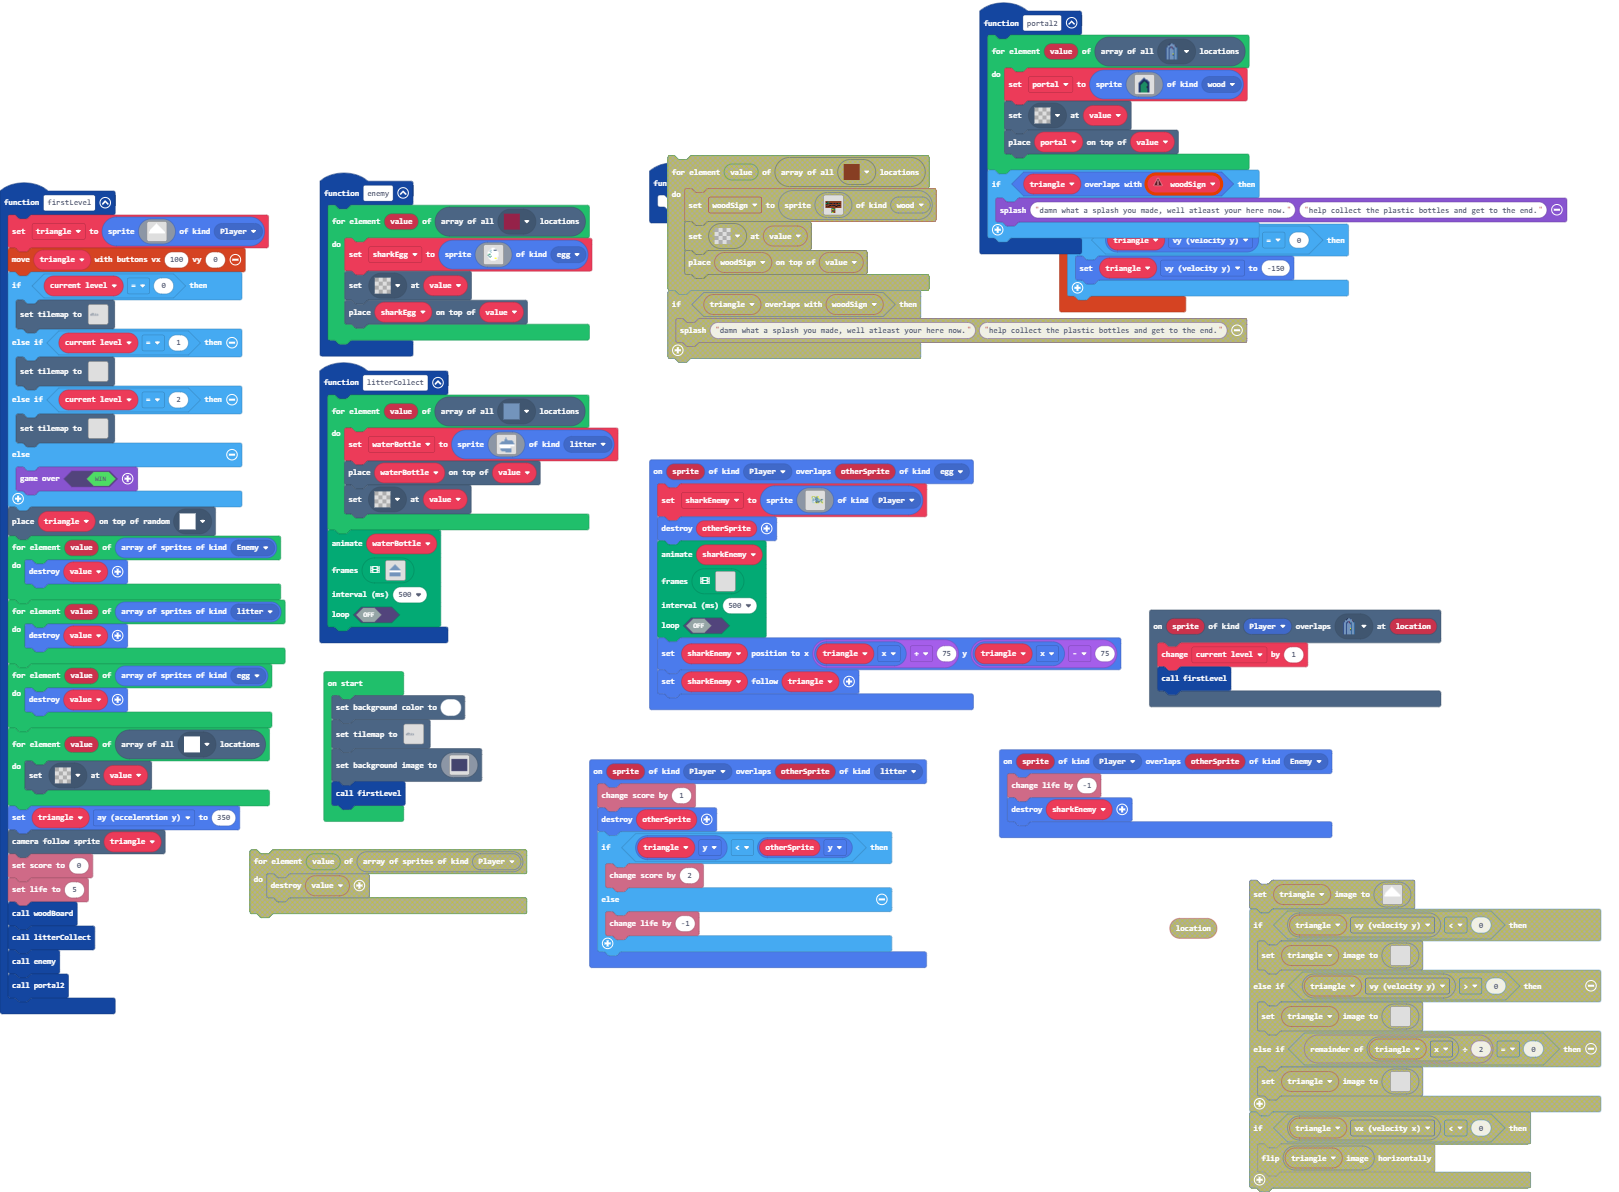
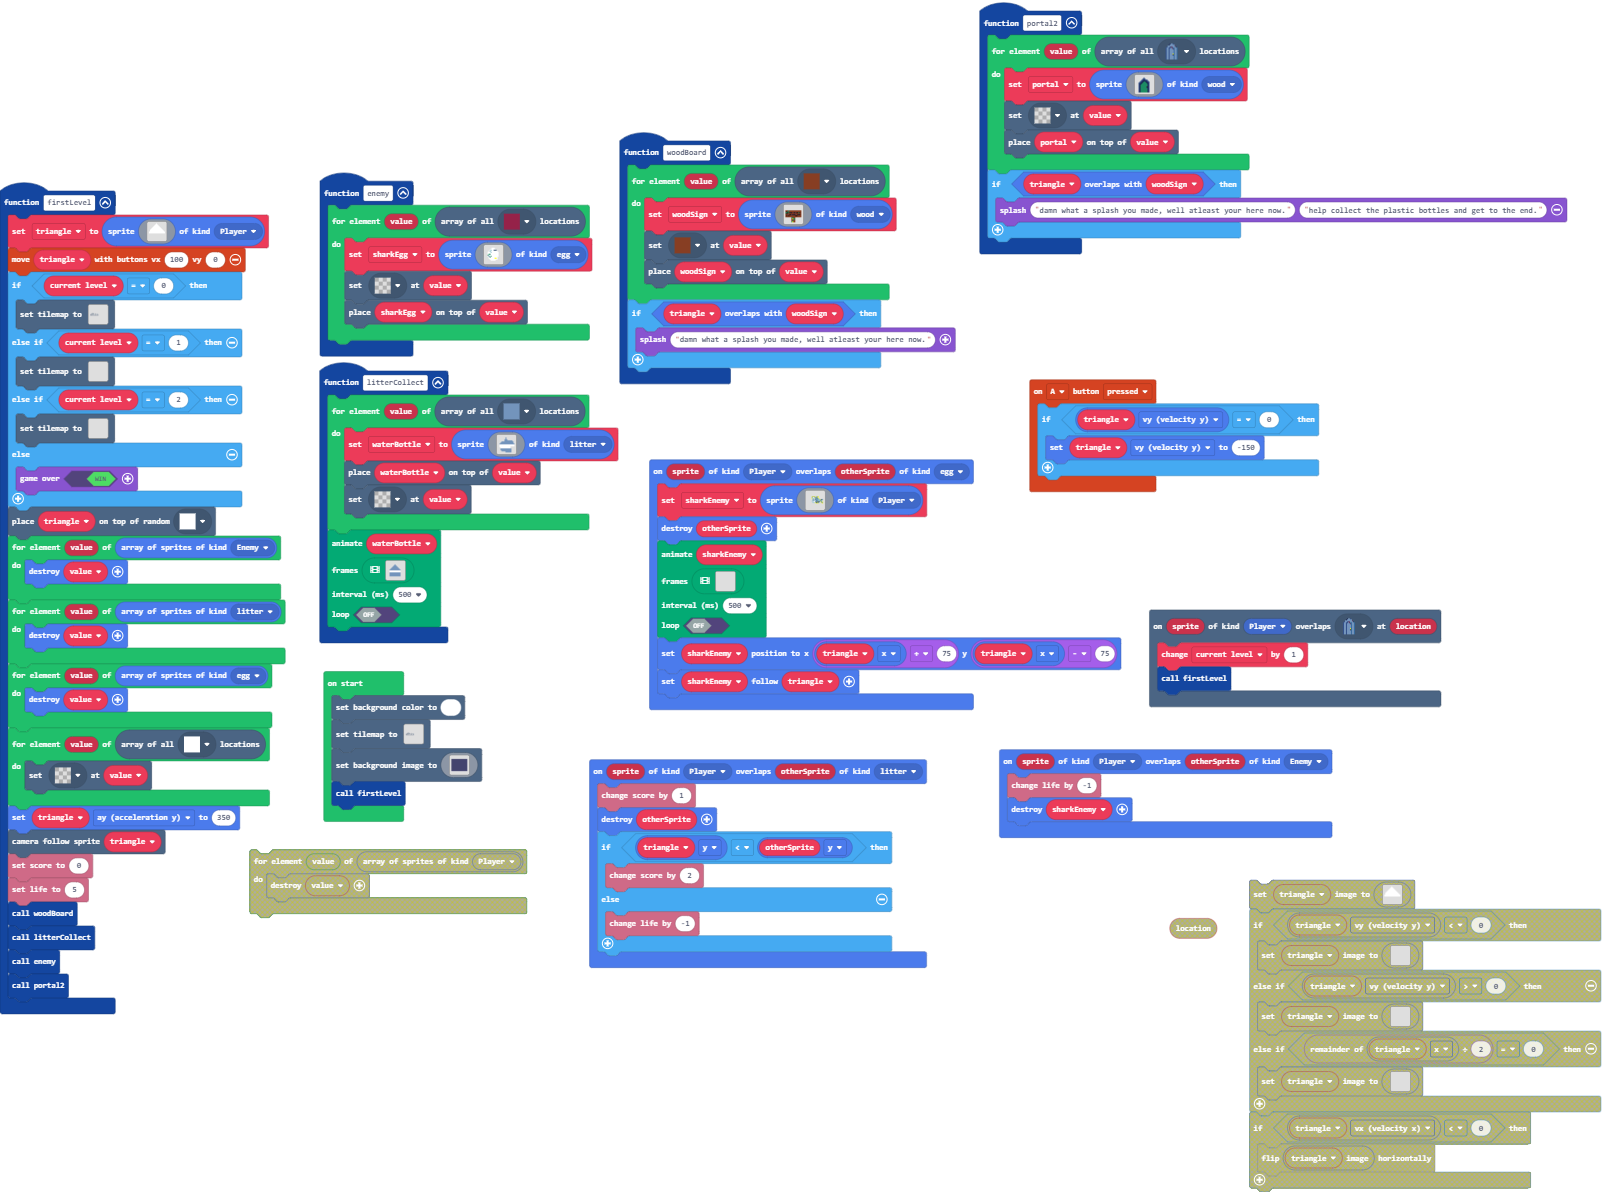
Update main.blocks, main.ts

Changed region(s): [[0.3706, 0.0931, 0.8338, 0.4346]]

diff --git a/main.ts b/main.ts
@@ -6,7 +6,31 @@ namespace SpriteKind {
     export const wood = SpriteKind.create()
 }
 function woodBoard () {
-	
+    for (let value of tiles.getTilesByType(assets.tile`myTile5`)) {
+        woodSign = sprites.create(img`
+            . . . . . . . . . . . . . . . . 
+            . . . . . . . . . . . . . . . . 
+            . . . . . . . . . . . . . . . . 
+            . . . . . . . . . . . . . . . . 
+            e e e 9 e e e e e e e e e e e e 
+            e d 9 e e e e e e e e e e e e e 
+            9 9 d 9 d 2 d e 2 d 8 d d 9 d e 
+            e d e e e e e e e e e e e e e e 
+            e e 8 e d d 8 d 2 d 8 e d 2 d e 
+            e d e d e e e e e e d d e e e e 
+            e e e e e e e e e e e e e e e e 
+            . . . . . . 9 9 e e . . . . . . 
+            . . . . . . e f 9 9 . . . . . . 
+            . . . . . . e e 9 e . . . . . . 
+            . . . . . . e 9 e e . . . . . . 
+            . . . . . . 9 f e e . . . . . . 
+            `, SpriteKind.wood)
+        tiles.setTileAt(value, assets.tile`myTile5`)
+        tiles.placeOnTile(woodSign, value)
+    }
+    if (triangle.overlapsWith(woodSign)) {
+        game.splash("damn what a splash you made, well atleast your here now.")
+    }
 }
 controller.A.onEvent(ControllerButtonEvent.Pressed, function () {
     if (triangle.vy == 0) {
@@ -76,7 +100,6 @@ function enemy () {
     }
 }
 function portal2 () {
-    let woodSign: Sprite = null
     for (let value of tiles.getTilesByType(assets.tile`myTile2`)) {
         portal = sprites.create(img`
             . . . . . . . . . . . . . . . . 
@@ -215,6 +238,7 @@ let portal: Sprite = null
 let sharkEgg: Sprite = null
 let sharkEnemy: Sprite = null
 let triangle: Sprite = null
+let woodSign: Sprite = null
 scene.setBackgroundColor(1)
 tiles.setTilemap(tilemap`level1`)
 scene.setBackgroundImage(img`
